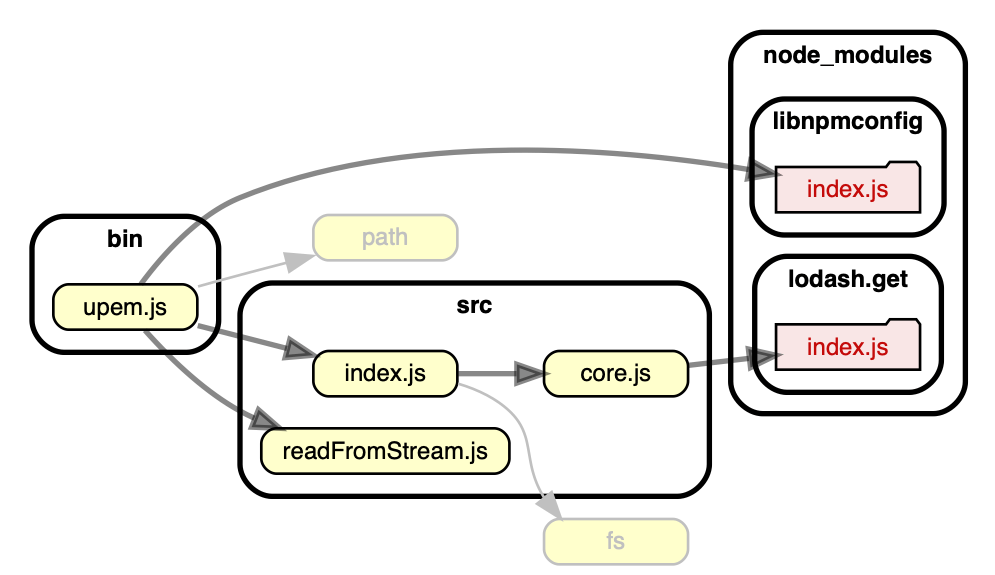
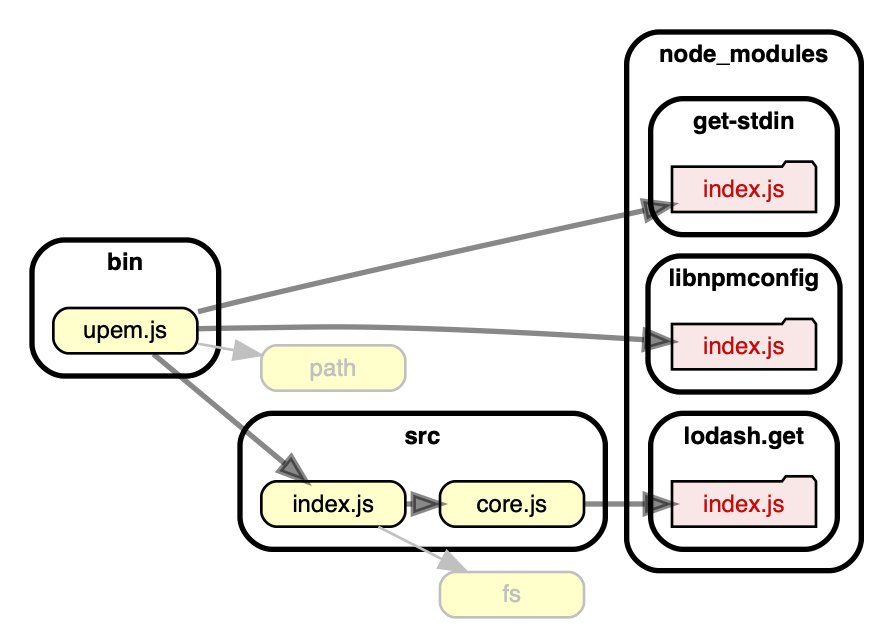
2.0.1

Changed region(s): [[0.0303, 0.0296, 1.0, 1.0], [0.2727, 0.2957, 0.3333, 0.3252]]

diff --git a/docs/dependencygraph.html b/docs/dependencygraph.html
@@ -35,143 +35,148 @@
 <!-- Generated by graphviz version 2.40.1 (20161225.0304)
  -->
 <!-- Title: dependency&#45;cruiser output Pages: 1 -->
-<svg width="373pt" height="216pt"
- viewBox="0.00 0.00 373.02 215.50" xmlns="http://www.w3.org/2000/svg" xmlns:xlink="http://www.w3.org/1999/xlink">
-<g id="graph0" class="graph" transform="scale(1 1) rotate(0) translate(4 211.5)">
+<svg width="334pt" height="236pt"
+ viewBox="0.00 0.00 334.00 235.50" xmlns="http://www.w3.org/2000/svg" xmlns:xlink="http://www.w3.org/1999/xlink">
+<g id="graph0" class="graph" transform="scale(1 1) rotate(0) translate(4 231.5)">
 <title>dependency&#45;cruiser output</title>
-<polygon fill="#ffffff" stroke="transparent" points="-4,4 -4,-211.5 369.0186,-211.5 369.0186,4 -4,4"/>
+<polygon fill="#ffffff" stroke="transparent" points="-4,4 -4,-231.5 330,-231.5 330,4 -4,4"/>
 <g id="clust1" class="cluster">
 <title>cluster_bin</title>
-<path fill="#ffffff" stroke="#000000" stroke-width="2" d="M20,-79.5C20,-79.5 66,-79.5 66,-79.5 72,-79.5 78,-85.5 78,-91.5 78,-91.5 78,-118.5 78,-118.5 78,-124.5 72,-130.5 66,-130.5 66,-130.5 20,-130.5 20,-130.5 14,-130.5 8,-124.5 8,-118.5 8,-118.5 8,-91.5 8,-91.5 8,-85.5 14,-79.5 20,-79.5"/>
-<text text-anchor="middle" x="43" y="-119.3" font-family="Helvetica,sans-Serif" font-weight="bold" font-size="9.00" fill="#000000">bin</text>
+<path fill="#ffffff" stroke="#000000" stroke-width="2" d="M20,-90.5C20,-90.5 66,-90.5 66,-90.5 72,-90.5 78,-96.5 78,-102.5 78,-102.5 78,-129.5 78,-129.5 78,-135.5 72,-141.5 66,-141.5 66,-141.5 20,-141.5 20,-141.5 14,-141.5 8,-135.5 8,-129.5 8,-129.5 8,-102.5 8,-102.5 8,-96.5 14,-90.5 20,-90.5"/>
+<text text-anchor="middle" x="43" y="-130.3" font-family="Helvetica,sans-Serif" font-weight="bold" font-size="9.00" fill="#000000">bin</text>
 </g>
 <g id="clust2" class="cluster">
 <title>cluster_node_modules</title>
-<path fill="#ffffff" stroke="#000000" stroke-width="2" d="M282.0186,-56.5C282.0186,-56.5 346.0186,-56.5 346.0186,-56.5 352.0186,-56.5 358.0186,-62.5 358.0186,-68.5 358.0186,-68.5 358.0186,-187.5 358.0186,-187.5 358.0186,-193.5 352.0186,-199.5 346.0186,-199.5 346.0186,-199.5 282.0186,-199.5 282.0186,-199.5 276.0186,-199.5 270.0186,-193.5 270.0186,-187.5 270.0186,-187.5 270.0186,-68.5 270.0186,-68.5 270.0186,-62.5 276.0186,-56.5 282.0186,-56.5"/>
-<text text-anchor="middle" x="314.0186" y="-188.3" font-family="Helvetica,sans-Serif" font-weight="bold" font-size="9.00" fill="#000000">node_modules</text>
+<path fill="#ffffff" stroke="#000000" stroke-width="2" d="M243,-17.5C243,-17.5 307,-17.5 307,-17.5 313,-17.5 319,-23.5 319,-29.5 319,-29.5 319,-207.5 319,-207.5 319,-213.5 313,-219.5 307,-219.5 307,-219.5 243,-219.5 243,-219.5 237,-219.5 231,-213.5 231,-207.5 231,-207.5 231,-29.5 231,-29.5 231,-23.5 237,-17.5 243,-17.5"/>
+<text text-anchor="middle" x="275" y="-208.3" font-family="Helvetica,sans-Serif" font-weight="bold" font-size="9.00" fill="#000000">node_modules</text>
 </g>
 <g id="clust3" class="cluster">
-<title>cluster_node_modules/libnpmconfig</title>
-<path fill="#ffffff" stroke="#000000" stroke-width="2" d="M290.0186,-123.5C290.0186,-123.5 338.0186,-123.5 338.0186,-123.5 344.0186,-123.5 350.0186,-129.5 350.0186,-135.5 350.0186,-135.5 350.0186,-162.5 350.0186,-162.5 350.0186,-168.5 344.0186,-174.5 338.0186,-174.5 338.0186,-174.5 290.0186,-174.5 290.0186,-174.5 284.0186,-174.5 278.0186,-168.5 278.0186,-162.5 278.0186,-162.5 278.0186,-135.5 278.0186,-135.5 278.0186,-129.5 284.0186,-123.5 290.0186,-123.5"/>
-<text text-anchor="middle" x="314.0186" y="-163.3" font-family="Helvetica,sans-Serif" font-weight="bold" font-size="9.00" fill="#000000">libnpmconfig</text>
+<title>cluster_node_modules/get&#45;stdin</title>
+<path fill="#ffffff" stroke="#000000" stroke-width="2" d="M252,-143.5C252,-143.5 298,-143.5 298,-143.5 304,-143.5 310,-149.5 310,-155.5 310,-155.5 310,-182.5 310,-182.5 310,-188.5 304,-194.5 298,-194.5 298,-194.5 252,-194.5 252,-194.5 246,-194.5 240,-188.5 240,-182.5 240,-182.5 240,-155.5 240,-155.5 240,-149.5 246,-143.5 252,-143.5"/>
+<text text-anchor="middle" x="275" y="-183.3" font-family="Helvetica,sans-Serif" font-weight="bold" font-size="9.00" fill="#000000">get&#45;stdin</text>
 </g>
 <g id="clust4" class="cluster">
-<title>cluster_node_modules/lodash.get</title>
-<path fill="#ffffff" stroke="#000000" stroke-width="2" d="M291.0186,-64.5C291.0186,-64.5 337.0186,-64.5 337.0186,-64.5 343.0186,-64.5 349.0186,-70.5 349.0186,-76.5 349.0186,-76.5 349.0186,-103.5 349.0186,-103.5 349.0186,-109.5 343.0186,-115.5 337.0186,-115.5 337.0186,-115.5 291.0186,-115.5 291.0186,-115.5 285.0186,-115.5 279.0186,-109.5 279.0186,-103.5 279.0186,-103.5 279.0186,-76.5 279.0186,-76.5 279.0186,-70.5 285.0186,-64.5 291.0186,-64.5"/>
-<text text-anchor="middle" x="314.0186" y="-104.3" font-family="Helvetica,sans-Serif" font-weight="bold" font-size="9.00" fill="#000000">lodash.get</text>
+<title>cluster_node_modules/libnpmconfig</title>
+<path fill="#ffffff" stroke="#000000" stroke-width="2" d="M251,-84.5C251,-84.5 299,-84.5 299,-84.5 305,-84.5 311,-90.5 311,-96.5 311,-96.5 311,-123.5 311,-123.5 311,-129.5 305,-135.5 299,-135.5 299,-135.5 251,-135.5 251,-135.5 245,-135.5 239,-129.5 239,-123.5 239,-123.5 239,-96.5 239,-96.5 239,-90.5 245,-84.5 251,-84.5"/>
+<text text-anchor="middle" x="275" y="-124.3" font-family="Helvetica,sans-Serif" font-weight="bold" font-size="9.00" fill="#000000">libnpmconfig</text>
 </g>
 <g id="clust5" class="cluster">
+<title>cluster_node_modules/lodash.get</title>
+<path fill="#ffffff" stroke="#000000" stroke-width="2" d="M252,-25.5C252,-25.5 298,-25.5 298,-25.5 304,-25.5 310,-31.5 310,-37.5 310,-37.5 310,-64.5 310,-64.5 310,-70.5 304,-76.5 298,-76.5 298,-76.5 252,-76.5 252,-76.5 246,-76.5 240,-70.5 240,-64.5 240,-64.5 240,-37.5 240,-37.5 240,-31.5 246,-25.5 252,-25.5"/>
+<text text-anchor="middle" x="275" y="-65.3" font-family="Helvetica,sans-Serif" font-weight="bold" font-size="9.00" fill="#000000">lodash.get</text>
+</g>
+<g id="clust6" class="cluster">
 <title>cluster_src</title>
-<path fill="#ffffff" stroke="#000000" stroke-width="2" d="M98,-25.5C98,-25.5 250.0186,-25.5 250.0186,-25.5 256.0186,-25.5 262.0186,-31.5 262.0186,-37.5 262.0186,-37.5 262.0186,-93.5 262.0186,-93.5 262.0186,-99.5 256.0186,-105.5 250.0186,-105.5 250.0186,-105.5 98,-105.5 98,-105.5 92,-105.5 86,-99.5 86,-93.5 86,-93.5 86,-37.5 86,-37.5 86,-31.5 92,-25.5 98,-25.5"/>
-<text text-anchor="middle" x="174.0093" y="-94.3" font-family="Helvetica,sans-Serif" font-weight="bold" font-size="9.00" fill="#000000">src</text>
+<path fill="#ffffff" stroke="#000000" stroke-width="2" d="M98,-25.5C98,-25.5 211,-25.5 211,-25.5 217,-25.5 223,-31.5 223,-37.5 223,-37.5 223,-64.5 223,-64.5 223,-70.5 217,-76.5 211,-76.5 211,-76.5 98,-76.5 98,-76.5 92,-76.5 86,-70.5 86,-64.5 86,-64.5 86,-37.5 86,-37.5 86,-31.5 92,-25.5 98,-25.5"/>
+<text text-anchor="middle" x="154.5" y="-65.3" font-family="Helvetica,sans-Serif" font-weight="bold" font-size="9.00" fill="#000000">src</text>
 </g>
 <!-- bin/upem.js -->
 <g id="node1" class="node">
 <title>bin/upem.js</title>
 <g id="a_node1"><a xlink:href="https://github.com/sverweij/upem/blob/master/bin/upem.js" xlink:title="upem.js">
-<path fill="#ffffcc" stroke="#000000" d="M64.3333,-105C64.3333,-105 21.6667,-105 21.6667,-105 18.8333,-105 16,-102.1667 16,-99.3333 16,-99.3333 16,-93.6667 16,-93.6667 16,-90.8333 18.8333,-88 21.6667,-88 21.6667,-88 64.3333,-88 64.3333,-88 67.1667,-88 70,-90.8333 70,-93.6667 70,-93.6667 70,-99.3333 70,-99.3333 70,-102.1667 67.1667,-105 64.3333,-105"/>
-<text text-anchor="middle" x="43" y="-93.8" font-family="Helvetica,sans-Serif" font-size="9.00" fill="#000000">upem.js</text>
+<path fill="#ffffcc" stroke="#000000" d="M64.3333,-116C64.3333,-116 21.6667,-116 21.6667,-116 18.8333,-116 16,-113.1667 16,-110.3333 16,-110.3333 16,-104.6667 16,-104.6667 16,-101.8333 18.8333,-99 21.6667,-99 21.6667,-99 64.3333,-99 64.3333,-99 67.1667,-99 70,-101.8333 70,-104.6667 70,-104.6667 70,-110.3333 70,-110.3333 70,-113.1667 67.1667,-116 64.3333,-116"/>
+<text text-anchor="middle" x="43" y="-104.8" font-family="Helvetica,sans-Serif" font-size="9.00" fill="#000000">upem.js</text>
 </a>
 </g>
 </g>
-<!-- node_modules/libnpmconfig/index.js -->
+<!-- node_modules/get&#45;stdin/index.js -->
 <g id="node3" class="node">
+<title>node_modules/get&#45;stdin/index.js</title>
+<g id="a_node3"><a xlink:href="https://github.com/sverweij/upem/blob/master/node_modules/get-stdin/index.js" xlink:title="index.js">
+<polygon fill="#c40b0a" fill-opacity="0.101961" stroke="#000000" points="302,-169 300.5833,-170.8889 290.6667,-170.8889 289.25,-169 248,-169 248,-152 302,-152 302,-169"/>
+<text text-anchor="middle" x="275" y="-157.8" font-family="Helvetica,sans-Serif" font-size="9.00" fill="#c40b0a">index.js</text>
+</a>
+</g>
+</g>
+<!-- bin/upem.js&#45;&gt;node_modules/get&#45;stdin/index.js -->
+<g id="edge2" class="edge">
+<title>bin/upem.js&#45;&gt;node_modules/get&#45;stdin/index.js</title>
+<path fill="none" stroke="#000000" stroke-width="2" stroke-opacity="0.466667" d="M70.2644,-114.6136C75.4808,-115.9352 80.9036,-117.2822 86,-118.5 138.4447,-131.0319 199.3766,-144.3501 237.5656,-152.5482"/>
+<polygon fill="#000000" fill-opacity="0.466667" stroke="#000000" stroke-width="2" stroke-opacity="0.466667" points="237.1967,-156.0485 247.7079,-154.7199 238.6623,-149.2036 237.1967,-156.0485"/>
+</g>
+<!-- node_modules/libnpmconfig/index.js -->
+<g id="node4" class="node">
 <title>node_modules/libnpmconfig/index.js</title>
-<g id="a_node3"><a xlink:href="https://github.com/sverweij/upem/blob/master/node_modules/libnpmconfig/index.js" xlink:title="index.js">
-<polygon fill="#c40b0a" fill-opacity="0.101961" stroke="#000000" points="341.0186,-149 339.6019,-150.8889 329.6852,-150.8889 328.2686,-149 287.0186,-149 287.0186,-132 341.0186,-132 341.0186,-149"/>
-<text text-anchor="middle" x="314.0186" y="-137.8" font-family="Helvetica,sans-Serif" font-size="9.00" fill="#c40b0a">index.js</text>
+<g id="a_node4"><a xlink:href="https://github.com/sverweij/upem/blob/master/node_modules/libnpmconfig/index.js" xlink:title="index.js">
+<polygon fill="#c40b0a" fill-opacity="0.101961" stroke="#000000" points="302,-110 300.5833,-111.8889 290.6667,-111.8889 289.25,-110 248,-110 248,-93 302,-93 302,-110"/>
+<text text-anchor="middle" x="275" y="-98.8" font-family="Helvetica,sans-Serif" font-size="9.00" fill="#c40b0a">index.js</text>
 </a>
 </g>
 </g>
 <!-- bin/upem.js&#45;&gt;node_modules/libnpmconfig/index.js -->
 <g id="edge3" class="edge">
 <title>bin/upem.js&#45;&gt;node_modules/libnpmconfig/index.js</title>
-<path fill="none" stroke="#000000" stroke-width="2" stroke-opacity="0.466667" d="M48.8008,-105.0296C56.1293,-114.9693 69.764,-130.8759 86,-137.5 149.0464,-163.2222 230.2999,-155.7359 276.8383,-148.0526"/>
-<polygon fill="#000000" fill-opacity="0.466667" stroke="#000000" stroke-width="2" stroke-opacity="0.466667" points="277.5282,-151.4852 286.7788,-146.3203 276.3264,-144.5892 277.5282,-151.4852"/>
+<path fill="none" stroke="#000000" stroke-width="2" stroke-opacity="0.466667" d="M70.2951,-108.2303C75.5086,-108.3427 80.9226,-108.441 86,-108.5 113.5537,-108.8203 120.4549,-109.2585 148,-108.5 178.1306,-107.6703 212.2366,-105.7352 237.5122,-104.1095"/>
+<polygon fill="#000000" fill-opacity="0.466667" stroke="#000000" stroke-width="2" stroke-opacity="0.466667" points="238.0177,-107.5839 247.7667,-103.4358 237.5587,-100.599 238.0177,-107.5839"/>
 </g>
 <!-- path -->
-<g id="node5" class="node">
+<g id="node6" class="node">
 <title>path</title>
-<path fill="#ffffcc" stroke="#c0c0c0" d="M161.8426,-131C161.8426,-131 119.1759,-131 119.1759,-131 116.3426,-131 113.5093,-128.1667 113.5093,-125.3333 113.5093,-125.3333 113.5093,-119.6667 113.5093,-119.6667 113.5093,-116.8333 116.3426,-114 119.1759,-114 119.1759,-114 161.8426,-114 161.8426,-114 164.6759,-114 167.5093,-116.8333 167.5093,-119.6667 167.5093,-119.6667 167.5093,-125.3333 167.5093,-125.3333 167.5093,-128.1667 164.6759,-131 161.8426,-131"/>
-<text text-anchor="middle" x="140.5093" y="-119.8" font-family="Helvetica,sans-Serif" font-size="9.00" fill="#c0c0c0">path</text>
+<path fill="#ffffcc" stroke="#c0c0c0" d="M142.3333,-102C142.3333,-102 99.6667,-102 99.6667,-102 96.8333,-102 94,-99.1667 94,-96.3333 94,-96.3333 94,-90.6667 94,-90.6667 94,-87.8333 96.8333,-85 99.6667,-85 99.6667,-85 142.3333,-85 142.3333,-85 145.1667,-85 148,-87.8333 148,-90.6667 148,-90.6667 148,-96.3333 148,-96.3333 148,-99.1667 145.1667,-102 142.3333,-102"/>
+<text text-anchor="middle" x="121" y="-90.8" font-family="Helvetica,sans-Serif" font-size="9.00" fill="#c0c0c0">path</text>
 </g>
 <!-- bin/upem.js&#45;&gt;path -->
 <g id="edge4" class="edge">
 <title>bin/upem.js&#45;&gt;path</title>
-<path fill="none" stroke="#c0c0c0" d="M70.2735,-104.203C75.4889,-105.65 80.9092,-107.1361 86,-108.5 91.6833,-110.0227 97.7089,-111.6037 103.6015,-113.1313"/>
-<polygon fill="#c0c0c0" stroke="#c0c0c0" points="102.7515,-116.5265 113.3085,-115.632 104.4979,-109.7478 102.7515,-116.5265"/>
+<path fill="none" stroke="#c0c0c0" d="M70.2806,-102.6035C74.6999,-101.8103 79.3404,-100.9774 83.9447,-100.1509"/>
+<polygon fill="#c0c0c0" stroke="#c0c0c0" points="84.6421,-103.5818 93.8665,-98.3701 83.4054,-96.6919 84.6421,-103.5818"/>
 </g>
 <!-- src/index.js -->
-<g id="node7" class="node">
+<g id="node8" class="node">
 <title>src/index.js</title>
-<g id="a_node7"><a xlink:href="https://github.com/sverweij/upem/blob/master/src/index.js" xlink:title="index.js">
-<path fill="#ffffcc" stroke="#000000" d="M161.8426,-80C161.8426,-80 119.1759,-80 119.1759,-80 116.3426,-80 113.5093,-77.1667 113.5093,-74.3333 113.5093,-74.3333 113.5093,-68.6667 113.5093,-68.6667 113.5093,-65.8333 116.3426,-63 119.1759,-63 119.1759,-63 161.8426,-63 161.8426,-63 164.6759,-63 167.5093,-65.8333 167.5093,-68.6667 167.5093,-68.6667 167.5093,-74.3333 167.5093,-74.3333 167.5093,-77.1667 164.6759,-80 161.8426,-80"/>
-<text text-anchor="middle" x="140.5093" y="-68.8" font-family="Helvetica,sans-Serif" font-size="9.00" fill="#000000">index.js</text>
+<g id="a_node8"><a xlink:href="https://github.com/sverweij/upem/blob/master/src/index.js" xlink:title="index.js">
+<path fill="#ffffcc" stroke="#000000" d="M142.3333,-51C142.3333,-51 99.6667,-51 99.6667,-51 96.8333,-51 94,-48.1667 94,-45.3333 94,-45.3333 94,-39.6667 94,-39.6667 94,-36.8333 96.8333,-34 99.6667,-34 99.6667,-34 142.3333,-34 142.3333,-34 145.1667,-34 148,-36.8333 148,-39.6667 148,-39.6667 148,-45.3333 148,-45.3333 148,-48.1667 145.1667,-51 142.3333,-51"/>
+<text text-anchor="middle" x="121" y="-39.8" font-family="Helvetica,sans-Serif" font-size="9.00" fill="#000000">index.js</text>
 </a>
 </g>
 </g>
 <!-- bin/upem.js&#45;&gt;src/index.js -->
 <g id="edge1" class="edge">
 <title>bin/upem.js&#45;&gt;src/index.js</title>
-<path fill="none" stroke="#000000" stroke-width="2" stroke-opacity="0.466667" d="M70.1618,-89.5361C80.5164,-86.8813 92.4995,-83.809 103.6085,-80.9608"/>
-<polygon fill="#000000" fill-opacity="0.466667" stroke="#000000" stroke-width="2" stroke-opacity="0.466667" points="104.6757,-84.3005 113.4932,-78.4265 102.9372,-77.5198 104.6757,-84.3005"/>
-</g>
-<!-- src/readFromStream.js -->
-<g id="node8" class="node">
-<title>src/readFromStream.js</title>
-<g id="a_node8"><a xlink:href="https://github.com/sverweij/upem/blob/master/src/readFromStream.js" xlink:title="readFromStream.js">
-<path fill="#ffffcc" stroke="#000000" d="M181.3612,-51C181.3612,-51 99.6574,-51 99.6574,-51 96.8241,-51 93.9907,-48.1667 93.9907,-45.3333 93.9907,-45.3333 93.9907,-39.6667 93.9907,-39.6667 93.9907,-36.8333 96.8241,-34 99.6574,-34 99.6574,-34 181.3612,-34 181.3612,-34 184.1945,-34 187.0278,-36.8333 187.0278,-39.6667 187.0278,-39.6667 187.0278,-45.3333 187.0278,-45.3333 187.0278,-48.1667 184.1945,-51 181.3612,-51"/>
-<text text-anchor="middle" x="140.5093" y="-39.8" font-family="Helvetica,sans-Serif" font-size="9.00" fill="#000000">readFromStream.js</text>
-</a>
-</g>
-</g>
-<!-- bin/upem.js&#45;&gt;src/readFromStream.js -->
-<g id="edge2" class="edge">
-<title>bin/upem.js&#45;&gt;src/readFromStream.js</title>
-<path fill="none" stroke="#000000" stroke-width="2" stroke-opacity="0.466667" d="M50.3478,-87.7679C58.2732,-78.8933 71.692,-65.3648 86,-57.5 87.7418,-56.5426 89.5491,-55.6428 91.4006,-54.7975"/>
-<polygon fill="#000000" fill-opacity="0.466667" stroke="#000000" stroke-width="2" stroke-opacity="0.466667" points="92.9285,-57.9566 100.9286,-51.0104 90.343,-51.4515 92.9285,-57.9566"/>
+<path fill="none" stroke="#000000" stroke-width="2" stroke-opacity="0.466667" d="M53.5194,-98.7338C66.1504,-88.208 87.5448,-70.3793 102.8591,-57.6174"/>
+<polygon fill="#000000" fill-opacity="0.466667" stroke="#000000" stroke-width="2" stroke-opacity="0.466667" points="105.2057,-60.218 110.6472,-51.1273 100.7243,-54.8404 105.2057,-60.218"/>
 </g>
 <!-- fs -->
 <g id="node2" class="node">
 <title>fs</title>
-<path fill="#ffffcc" stroke="#c0c0c0" d="M248.3519,-17C248.3519,-17 205.6852,-17 205.6852,-17 202.8519,-17 200.0186,-14.1667 200.0186,-11.3333 200.0186,-11.3333 200.0186,-5.6667 200.0186,-5.6667 200.0186,-2.8333 202.8519,0 205.6852,0 205.6852,0 248.3519,0 248.3519,0 251.1852,0 254.0186,-2.8333 254.0186,-5.6667 254.0186,-5.6667 254.0186,-11.3333 254.0186,-11.3333 254.0186,-14.1667 251.1852,-17 248.3519,-17"/>
-<text text-anchor="middle" x="227.0186" y="-5.8" font-family="Helvetica,sans-Serif" font-size="9.00" fill="#c0c0c0">fs</text>
+<path fill="#ffffcc" stroke="#c0c0c0" d="M209.3333,-17C209.3333,-17 166.6667,-17 166.6667,-17 163.8333,-17 161,-14.1667 161,-11.3333 161,-11.3333 161,-5.6667 161,-5.6667 161,-2.8333 163.8333,0 166.6667,0 166.6667,0 209.3333,0 209.3333,0 212.1667,0 215,-2.8333 215,-5.6667 215,-5.6667 215,-11.3333 215,-11.3333 215,-14.1667 212.1667,-17 209.3333,-17"/>
+<text text-anchor="middle" x="188" y="-5.8" font-family="Helvetica,sans-Serif" font-size="9.00" fill="#c0c0c0">fs</text>
 </g>
 <!-- node_modules/lodash.get/index.js -->
-<g id="node4" class="node">
+<g id="node5" class="node">
 <title>node_modules/lodash.get/index.js</title>
-<g id="a_node4"><a xlink:href="https://github.com/sverweij/upem/blob/master/node_modules/lodash.get/index.js" xlink:title="index.js">
-<polygon fill="#c40b0a" fill-opacity="0.101961" stroke="#000000" points="341.0186,-90 339.6019,-91.8889 329.6852,-91.8889 328.2686,-90 287.0186,-90 287.0186,-73 341.0186,-73 341.0186,-90"/>
-<text text-anchor="middle" x="314.0186" y="-78.8" font-family="Helvetica,sans-Serif" font-size="9.00" fill="#c40b0a">index.js</text>
+<g id="a_node5"><a xlink:href="https://github.com/sverweij/upem/blob/master/node_modules/lodash.get/index.js" xlink:title="index.js">
+<polygon fill="#c40b0a" fill-opacity="0.101961" stroke="#000000" points="302,-51 300.5833,-52.8889 290.6667,-52.8889 289.25,-51 248,-51 248,-34 302,-34 302,-51"/>
+<text text-anchor="middle" x="275" y="-39.8" font-family="Helvetica,sans-Serif" font-size="9.00" fill="#c40b0a">index.js</text>
 </a>
 </g>
 </g>
 <!-- src/core.js -->
-<g id="node6" class="node">
+<g id="node7" class="node">
 <title>src/core.js</title>
-<g id="a_node6"><a xlink:href="https://github.com/sverweij/upem/blob/master/src/core.js" xlink:title="core.js">
-<path fill="#ffffcc" stroke="#000000" d="M248.3519,-80C248.3519,-80 205.6852,-80 205.6852,-80 202.8519,-80 200.0186,-77.1667 200.0186,-74.3333 200.0186,-74.3333 200.0186,-68.6667 200.0186,-68.6667 200.0186,-65.8333 202.8519,-63 205.6852,-63 205.6852,-63 248.3519,-63 248.3519,-63 251.1852,-63 254.0186,-65.8333 254.0186,-68.6667 254.0186,-68.6667 254.0186,-74.3333 254.0186,-74.3333 254.0186,-77.1667 251.1852,-80 248.3519,-80"/>
-<text text-anchor="middle" x="227.0186" y="-68.8" font-family="Helvetica,sans-Serif" font-size="9.00" fill="#000000">core.js</text>
+<g id="a_node7"><a xlink:href="https://github.com/sverweij/upem/blob/master/src/core.js" xlink:title="core.js">
+<path fill="#ffffcc" stroke="#000000" d="M209.3333,-51C209.3333,-51 166.6667,-51 166.6667,-51 163.8333,-51 161,-48.1667 161,-45.3333 161,-45.3333 161,-39.6667 161,-39.6667 161,-36.8333 163.8333,-34 166.6667,-34 166.6667,-34 209.3333,-34 209.3333,-34 212.1667,-34 215,-36.8333 215,-39.6667 215,-39.6667 215,-45.3333 215,-45.3333 215,-48.1667 212.1667,-51 209.3333,-51"/>
+<text text-anchor="middle" x="188" y="-39.8" font-family="Helvetica,sans-Serif" font-size="9.00" fill="#000000">core.js</text>
 </a>
 </g>
 </g>
 <!-- src/core.js&#45;&gt;node_modules/lodash.get/index.js -->
 <g id="edge5" class="edge">
 <title>src/core.js&#45;&gt;node_modules/lodash.get/index.js</title>
-<path fill="none" stroke="#000000" stroke-width="2" stroke-opacity="0.466667" d="M254.069,-74.6092C261.2706,-75.437 269.1775,-76.3459 276.8195,-77.2242"/>
-<polygon fill="#000000" fill-opacity="0.466667" stroke="#000000" stroke-width="2" stroke-opacity="0.466667" points="276.6506,-80.7278 286.9848,-78.3927 277.4499,-73.7736 276.6506,-80.7278"/>
+<path fill="none" stroke="#000000" stroke-width="2" stroke-opacity="0.466667" d="M215.0504,-42.5C222.252,-42.5 230.159,-42.5 237.8009,-42.5"/>
+<polygon fill="#000000" fill-opacity="0.466667" stroke="#000000" stroke-width="2" stroke-opacity="0.466667" points="237.9663,-46.0001 247.9663,-42.5 237.9663,-39.0001 237.9663,-46.0001"/>
 </g>
 <!-- src/index.js&#45;&gt;fs -->
 <g id="edge7" class="edge">
 <title>src/index.js&#45;&gt;fs</title>
-<path fill="none" stroke="#c0c0c0" d="M167.8039,-67.7443C174.7474,-65.6716 181.7311,-62.4632 187.0186,-57.5 197.2269,-47.9177 191.6381,-38.4384 200.062,-24.9893"/>
-<polygon fill="#c0c0c0" stroke="#c0c0c0" points="202.8697,-27.0822 206.3729,-17.0833 197.3989,-22.7152 202.8697,-27.0822"/>
+<path fill="none" stroke="#c0c0c0" d="M137.9069,-33.9204C145.1513,-30.2441 153.7807,-25.865 161.8191,-21.7858"/>
+<polygon fill="#c0c0c0" stroke="#c0c0c0" points="163.5318,-24.8416 170.8654,-17.1952 160.3641,-18.5994 163.5318,-24.8416"/>
 </g>
 <!-- src/index.js&#45;&gt;src/core.js -->
 <g id="edge6" class="edge">
 <title>src/index.js&#45;&gt;src/core.js</title>
-<path fill="none" stroke="#000000" stroke-width="2" stroke-opacity="0.466667" d="M167.8814,-71.5C174.8123,-71.5 182.375,-71.5 189.7056,-71.5"/>
-<polygon fill="#000000" fill-opacity="0.466667" stroke="#000000" stroke-width="2" stroke-opacity="0.466667" points="189.8246,-75.0001 199.8245,-71.5 189.8245,-68.0001 189.8246,-75.0001"/>
+<path fill="none" stroke="#000000" stroke-width="2" stroke-opacity="0.466667" d="M148.2515,-42.5C149.0394,-42.5 149.8322,-42.5 150.6279,-42.5"/>
+<polygon fill="#000000" fill-opacity="0.466667" stroke="#000000" stroke-width="2" stroke-opacity="0.466667" points="150.9899,-46.0001 160.9899,-42.5 150.9899,-39.0001 150.9899,-46.0001"/>
 </g>
 </g>
 </svg>
